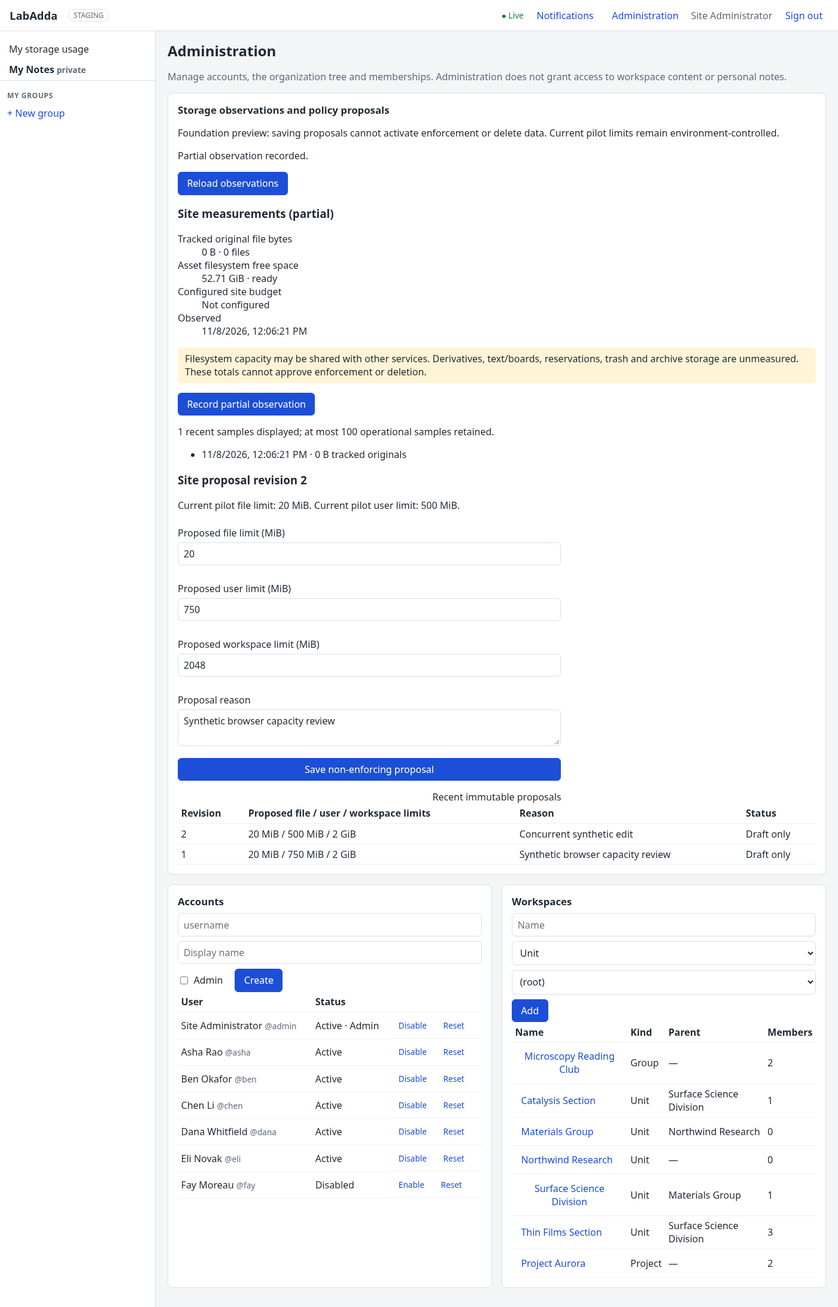
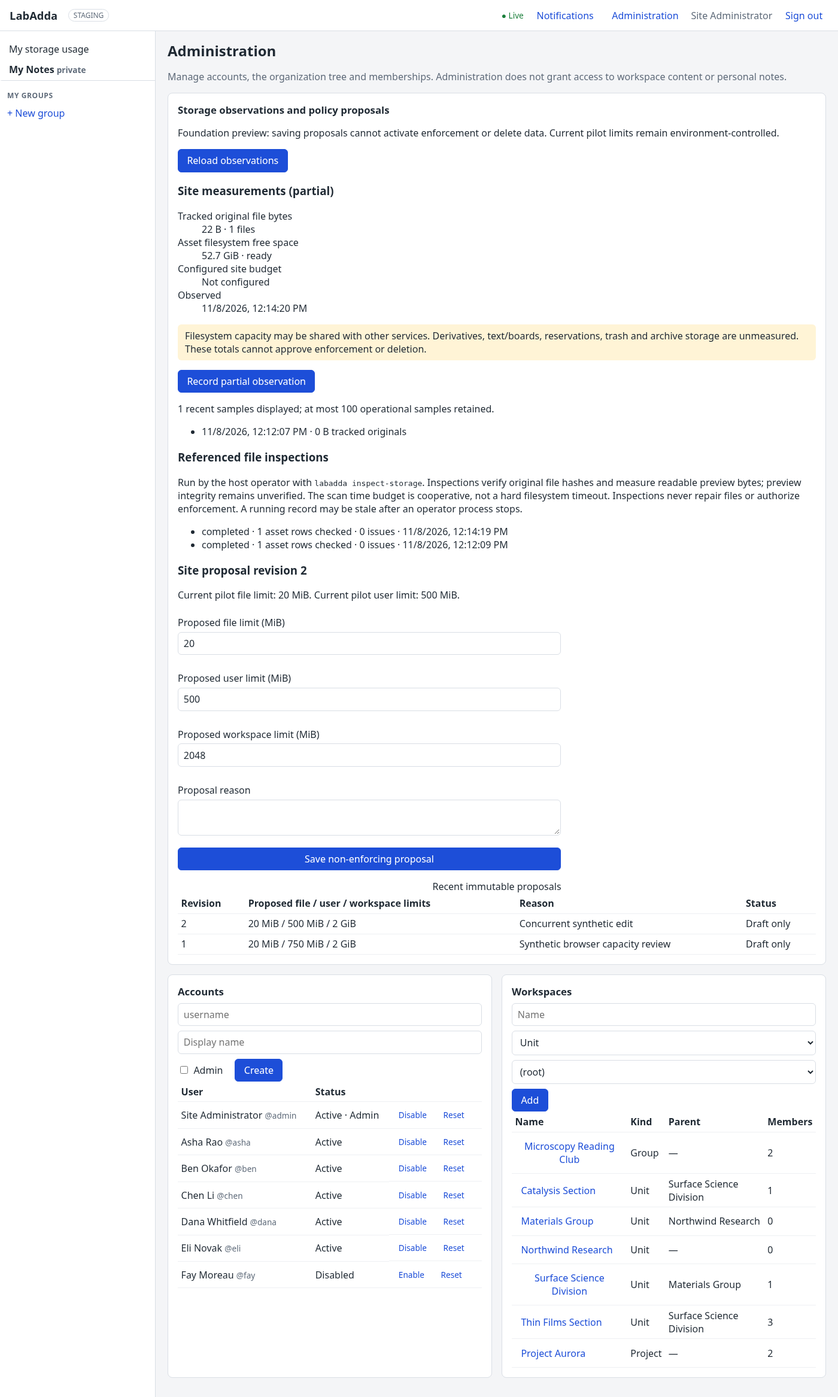
feat: add bounded read-only asset inspection and operator receipts

diff --git a/frontend/src/components/Governance.tsx b/frontend/src/components/Governance.tsx
@@ -7,6 +7,7 @@ const MiB = 1024 * 1024;
 export function Governance() {
   const [policy, setPolicy] = useState<PolicyDrafts | null>(null);
   const [usage, setUsage] = useState<SiteUsage | null>(null);
+  const [inspections, setInspections] = useState<{id: string; status: string; finished_at: string | null; summary: {checked_assets?: number; issue_count?: number; state?: string}}[]>([]);
   const [history, setHistory] = useState<Observation[]>([]);
   const [error, setError] = useState<string | null>(null);
   const [message, setMessage] = useState('');
@@ -16,8 +17,8 @@ export function Governance() {
   const [userLimit, setUserLimit] = useState(500);
   const [workspaceLimit, setWorkspaceLimit] = useState(2048);
   async function load() {
-    const [p, u, h] = await Promise.all([api<PolicyDrafts>('/admin/policy-drafts'), api<SiteUsage>('/admin/usage'), api<{observations: Observation[]}>('/admin/usage-observations')]);
-    setPolicy(p); setUsage(u); setHistory(h.observations);
+    const [p, u, h, inspections] = await Promise.all([api<PolicyDrafts>('/admin/policy-drafts'), api<SiteUsage>('/admin/usage'), api<{observations: Observation[]}>('/admin/usage-observations'), api('/admin/storage-inspections')]);
+    setPolicy(p); setUsage(u); setHistory(h.observations); setInspections(inspections.inspections);
   }
   useEffect(() => { load().catch(e => setError(e.message)); }, []);
   async function run(action: () => Promise<any>, success: string) {
@@ -51,9 +52,12 @@ export function Governance() {
       </dl>
       <p className="notice">Filesystem capacity may be shared with other services. Derivatives, text/boards, reservations, trash and archive storage are unmeasured. These totals cannot approve enforcement or deletion.</p>
       <button disabled={busy} onClick={() => run(() => api('/admin/usage-observations', {body: {}}), 'Partial observation recorded.')}>Record partial observation</button>
-      <p>{history.length} recent samples displayed; at most 100 operational samples retained.</p>
+      <p>{Math.min(history.length, 5)} recent samples displayed; at most 100 operational samples retained.</p>
       {history.length > 0 && <ul>{history.slice(0, 5).map(h => <li key={h.id}>{new Date(h.observed_at).toLocaleString()} · {bytes(h.measurement.assets.tracked_original_bytes)} tracked originals</li>)}</ul>}
     </>}
+    <h3>Referenced file inspections</h3>
+    <p>Run by the host operator with <code>labadda inspect-storage</code>. Inspections verify original file hashes and measure readable preview bytes; preview integrity remains unverified. The scan time budget is cooperative, not a hard filesystem timeout. Inspections never repair files or authorize enforcement. A running record may be stale after an operator process stops.</p>
+    {inspections.length === 0 ? <p>No inspection receipts available.</p> : <ul>{inspections.map(r => <li key={r.id}>{r.status} · {r.summary.checked_assets ?? 'Not reported'} asset rows checked · {r.summary.issue_count ?? 'Not reported'} issues · {r.finished_at ? new Date(r.finished_at).toLocaleString() : 'No completion receipt'}</li>)}</ul>}
     {policy && <>
       <h3>Site proposal revision {policy.latest_revision}</h3>
       <p>Current pilot file limit: {bytes(policy.runtime_limits.max_attachment_bytes)}. Current pilot user limit: {bytes(policy.runtime_limits.user_quota_bytes)}.</p>

diff --git a/backend/labadda/inspection.py b/backend/labadda/inspection.py
@@ -1,0 +1,120 @@
+"""Bounded non-destructive inspection of database-referenced asset files.
+
+Does not enumerate or delete unreferenced files, repair counters or authorize purge.
+Run as the trusted host operator. A live filesystem is not a transactional snapshot.
+"""
+import hashlib
+import stat
+import time
+import os
+from pathlib import Path
+
+from sqlalchemy import func, select, text
+
+from . import audit
+from .models import Asset, StorageInspection
+from .security import utcnow
+from .storage import AssetStore
+
+
+class BudgetExceeded(Exception):
+    pass
+
+
+def inspect_storage(factory, root: Path, *, max_files: int = 10000, max_bytes: int = 1024**3,
+                    max_seconds: float = 30) -> dict:
+    if not 1 <= max_files <= 100000 or not 1 <= max_bytes <= 10*1024**3 or not 0 < max_seconds <= 300:
+        raise ValueError('Inspection budget is outside supported bounds')
+    began = time.monotonic()
+    with factory() as db:
+        row = StorageInspection(status='running', summary={'source':'operator_cli', 'complete_for_enforcement':False}, created_at=utcnow())
+        db.add(row); db.commit(); inspection_id = row.id
+    summary = {'source':'operator_cli', 'state':'partial', 'complete_for_enforcement':False,
+               'scope':'database_referenced_assets', 'checked_assets':0, 'checked_files':0,
+               'verified_original_bytes':0, 'readable_preview_bytes':0, 'bytes_read':0,
+               'issue_count':0, 'issues':[], 'issues_truncated':False,
+               'budget':{'files':max_files,'bytes':max_bytes,'seconds':max_seconds},
+               'unmeasured':['unreferenced_files','text_and_board_bytes','reservations','trash','archives'],
+               'concurrent_changes_possible':True, 'preview_integrity':'unverified',
+               'time_budget_kind':'cooperative_scan_only'}
+    store = AssetStore(root)
+    def issue(asset_id, code):
+        summary['issue_count'] += 1
+        if len(summary['issues']) < 100:
+            summary['issues'].append({'asset_id':str(asset_id),'code':code})
+        else:
+            summary['issues_truncated'] = True
+    def check_budget():
+        if time.monotonic()-began >= max_seconds or summary['checked_files'] >= max_files:
+            raise BudgetExceeded()
+    def check_file(path, asset_id, size=None, expected_hash=None):
+        check_budget()
+        summary['checked_files'] += 1
+        # No following a final symlink; parents must resolve beneath this private root.
+        if path.is_symlink() or not path.resolve().is_relative_to(root.resolve()):
+            issue(asset_id,'unsafe_path'); return None
+        try:
+            fd = os.open(path, os.O_RDONLY | os.O_NOFOLLOW | os.O_NONBLOCK)
+            with os.fdopen(fd,'rb') as stream:
+                before = os.fstat(stream.fileno())
+                if not stat.S_ISREG(before.st_mode):
+                    issue(asset_id,'not_regular'); return None
+                if size is not None and before.st_size != size:
+                    issue(asset_id,'size_mismatch'); return None
+                if summary['bytes_read'] + before.st_size > max_bytes:
+                    raise BudgetExceeded()
+                h = hashlib.sha256(); read = 0
+                while True:
+                    if time.monotonic()-began >= max_seconds:
+                        raise BudgetExceeded()
+                    chunk = stream.read(min(256*1024, max_bytes-summary['bytes_read']+1))
+                    if not chunk: break
+                    summary['bytes_read'] += len(chunk); read += len(chunk)
+                    if summary['bytes_read'] > max_bytes: raise BudgetExceeded()
+                    h.update(chunk)
+                after = os.fstat(stream.fileno())
+                if (before.st_size,before.st_mtime_ns) != (after.st_size,after.st_mtime_ns) or read != before.st_size:
+                    issue(asset_id,'changed_during_read'); return None
+                if expected_hash is not None and h.hexdigest() != expected_hash:
+                    issue(asset_id,'hash_mismatch'); return None
+                return read
+        except OSError:
+            issue(asset_id,'file_unavailable'); return None
+    status = 'partial'
+    try:
+        if root.is_symlink() or not root.is_dir():
+            raise ValueError('Asset root must be a regular directory')
+        with factory() as db:
+            db.execute(text("set local statement_timeout = '2s'"))
+            total = db.scalar(select(func.count()).select_from(Asset))
+            summary['observed_asset_rows'] = total
+            # Fixed, bounded selection; new rows are never silently added to this pass.
+            rows = db.execute(select(Asset.id, Asset.storage_key, Asset.size, Asset.sha256, Asset.has_preview)
+                              .order_by(Asset.id).limit(max_files+1)).all()
+        summary['selected_asset_rows'] = min(len(rows), max_files)
+        for item in rows[:max_files]:
+            check_budget()
+            original = check_file(store.path(item.storage_key), item.id, item.size, item.sha256)
+            summary['checked_assets'] += 1
+            if original is not None: summary['verified_original_bytes'] += original
+            if item.has_preview:
+                preview = check_file(store.path(item.storage_key,preview=True), item.id)
+                if preview is not None: summary['readable_preview_bytes'] += preview
+        summary['selected_pass_complete'] = len(rows) <= max_files
+        status = 'completed' if summary['selected_pass_complete'] else 'partial'
+    except BudgetExceeded:
+        summary['selected_pass_complete'] = False
+        summary['stop_reason'] = 'budget_exhausted'
+    except Exception:
+        status = 'failed'
+        summary['selected_pass_complete'] = False
+        summary['stop_reason'] = 'inspection_unavailable'
+    summary['state'] = 'original_references_verified' if status == 'completed' and summary['issue_count'] == 0 and summary['readable_preview_bytes'] == 0 else 'partial'
+    summary['elapsed_seconds'] = round(time.monotonic()-began,3)
+    with factory() as db:
+        row = db.get(StorageInspection, inspection_id)
+        row.status, row.summary, row.finished_at = status, summary, utcnow()
+        audit.record(db, actor=None, action='storage.inspect', scope_type='site', target_id=inspection_id,
+                     outcome=status, source='operator_cli')
+        db.commit()
+    return {'id':str(inspection_id),'status':status,'summary':summary}

diff --git a/backend/tests/test_inspection.py b/backend/tests/test_inspection.py
@@ -1,0 +1,80 @@
+"""P5.1 bounded referenced-file inspection must not repair or expose content."""
+import pytest
+
+from labadda.inspection import inspect_storage
+
+
+def upload(api):
+    response = api.post('/uploads', files={'file': ('sensitive-label.pdf', b'%PDF-1.4\nfixture\n%%EOF', 'application/pdf')})
+    assert response.status_code == 201
+    return response.json()
+
+
+def test_referenced_original_hash_and_admin_receipt(as_user, settings, db_factory):
+    asset = upload(as_user('ben'))
+    result = inspect_storage(db_factory, settings.asset_dir)
+    assert result['status'] == 'completed'
+    assert result['summary']['verified_original_bytes'] == asset['size']
+    assert not result['summary']['complete_for_enforcement']
+    assert result['summary']['issue_count'] == 0
+    assert as_user('ben').get('/admin/storage-inspections').status_code == 403
+    receipt = as_user('admin').get('/admin/storage-inspections').json()['inspections'][0]
+    assert receipt['id'] == result['id']
+    assert 'sensitive-label' not in str(receipt)
+    assert not as_user('admin').get('/admin/storage-inspections').json()['enforcement_authority']
+
+
+@pytest.mark.parametrize('mutation,code', [('missing','file_unavailable'), ('bytes','hash_mismatch'), ('link','unsafe_path')])
+def test_mismatches_are_reported_never_repaired(as_user, settings, db_factory, mutation, code):
+    upload(as_user('ben'))
+    path = next(settings.asset_dir.rglob('*.bin'))
+    if mutation == 'missing': path.unlink()
+    elif mutation == 'bytes':
+        data = path.read_bytes()
+        path.write_bytes(b'x' * len(data))
+    else:
+        path.unlink(); path.symlink_to('/etc/passwd')
+    result = inspect_storage(db_factory, settings.asset_dir)
+    assert result['summary']['issue_count'] == 1
+    assert result['summary']['issues'][0]['code'] == code
+    assert result['summary']['state'] == 'partial'
+    if mutation == 'bytes': assert path.read_bytes() == b'x' * len(data)
+    if mutation == 'link': assert path.is_symlink()
+
+
+def test_byte_budget_stops_without_false_completion(as_user, settings, db_factory):
+    upload(as_user('ben'))
+    result = inspect_storage(db_factory, settings.asset_dir, max_bytes=1)
+    assert result['status'] == 'partial'
+    assert result['summary']['stop_reason'] == 'budget_exhausted'
+    assert result['summary']['bytes_read'] == 0
+
+
+def test_missing_asset_root_persists_failed_result(settings, db_factory):
+    result = inspect_storage(db_factory, settings.asset_dir)
+    assert result['status'] == 'failed'
+    assert result['summary']['stop_reason'] == 'inspection_unavailable'
+
+
+def test_preview_bytes_are_distinct_from_original_bytes(as_user, settings, db_factory):
+    from io import BytesIO
+    from PIL import Image
+    stream = BytesIO(); Image.new('RGB',(20,20),'blue').save(stream,format='PNG')
+    response = as_user('ben').post('/uploads',files={'file':('fixture.png',stream.getvalue(),'image/png')})
+    assert response.status_code == 201
+    result = inspect_storage(db_factory, settings.asset_dir)
+    assert result['summary']['verified_original_bytes'] == len(stream.getvalue())
+    assert result['summary']['readable_preview_bytes'] > 0
+    assert result['summary']['checked_files'] == 2
+    assert result['summary']['preview_integrity'] == 'unverified'
+    assert result['summary']['state'] == 'partial'
+
+
+def test_file_budget_includes_previews(as_user, settings, db_factory):
+    from io import BytesIO
+    from PIL import Image
+    stream = BytesIO(); Image.new('RGB',(2,2),'blue').save(stream,format='PNG')
+    assert as_user('ben').post('/uploads',files={'file':('fixture.png',stream.getvalue(),'image/png')}).status_code == 201
+    result = inspect_storage(db_factory, settings.asset_dir, max_files=1)
+    assert result['status'] == 'partial'
+    assert result['summary']['stop_reason'] == 'budget_exhausted'

diff --git a/backend/labadda/api/usage.py b/backend/labadda/api/usage.py
@@ -10,7 +10,7 @@ from .. import audit
 from ..config import Settings
 from ..deps import Actor, current_actor, get_db, get_settings, require_admin
 from ..errors import ApiError
-from ..models import Asset, UsageObservation
+from ..models import Asset, StorageInspection, UsageObservation
 from ..security import utcnow
 from ..serialize import iso
 
@@ -78,7 +78,7 @@ def record_observation(actor: Actor = Depends(require_admin), db: Session = Depe
     measured = site_payload(db, settings)
     # Keep only 100 observations. This is explicitly operational telemetry, not
     # immutable policy/audit history or a deletion candidate ledger.
-    row = UsageObservation(schema_version=1, payload=measured, created_by=actor.id)
+    row = UsageObservation(schema_version=1, payload=measured, created_by=actor.id, created_at=utcnow())
     db.add(row)
     db.flush()
     old_ids = select(UsageObservation.id).order_by(UsageObservation.created_at.desc(), UsageObservation.id.desc()).offset(100)
@@ -93,3 +93,11 @@ def observations(actor: Actor = Depends(require_admin), db: Session = Depends(ge
     rows = db.scalars(select(UsageObservation).order_by(UsageObservation.created_at.desc(), UsageObservation.id.desc()).limit(20))
     return {'observations': [{'id': str(r.id), 'observed_at': iso(r.created_at), 'measurement': r.payload} for r in rows],
             'retention': {'maximum_samples': 100, 'returned_samples': 20}}
+
+
+@router.get('/admin/storage-inspections')
+def inspections(actor: Actor = Depends(require_admin), db: Session = Depends(get_db)):
+    rows = db.scalars(select(StorageInspection).order_by(StorageInspection.created_at.desc(), StorageInspection.id.desc()).limit(20))
+    return {'inspections': [{'id':str(r.id), 'status':r.status, 'started_at':iso(r.created_at),
+                            'finished_at':iso(r.finished_at), 'summary':r.summary} for r in rows],
+            'trigger': 'trusted_operator_cli', 'enforcement_authority': False}

diff --git a/backend/labadda/cli.py b/backend/labadda/cli.py
@@ -45,8 +45,23 @@ def main(argv: list[str] | None = None) -> int:
     restore.add_argument("bundle", type=Path)
     restore.add_argument("--manifest-sha256", required=True)
     restore.add_argument("--isolated-target", action="store_true", required=True)
+    inspect = sub.add_parser("inspect-storage", help="bounded read-only inspection of referenced asset bytes")
+    inspect.add_argument("--max-files", type=int, default=10000)
+    inspect.add_argument("--max-bytes", type=int, default=1024**3)
+    inspect.add_argument("--max-seconds", type=float, default=30)
     args = parser.parse_args(argv)
     settings = load_settings()
+
+    if args.cmd == "inspect-storage":
+        from .inspection import inspect_storage
+        try:
+            result = inspect_storage(session_factory(settings.database_url), settings.asset_dir,
+                                     max_files=args.max_files, max_bytes=args.max_bytes, max_seconds=args.max_seconds)
+            print(json.dumps(result))
+            return 0 if result["status"] == "completed" and result["summary"]["issue_count"] == 0 else 2
+        except Exception:
+            print("Inspection failed. Check budgets, asset root and database access; no files were repaired or removed.", file=sys.stderr)
+            return 2
 
     if args.cmd == "backup":
         from .recovery import backup as create_backup

diff --git a/backend/migrations/versions/0008_storage_inspections.py b/backend/migrations/versions/0008_storage_inspections.py
@@ -1,0 +1,23 @@
+"""Read-only referenced-file inspection receipts."""
+import sqlalchemy as sa
+from sqlalchemy.dialects.postgresql import JSONB
+from alembic import op
+
+revision = '0008'
+down_revision = '0007'
+branch_labels = None
+depends_on = None
+
+
+def upgrade():
+    op.create_table('storage_inspections', sa.Column('id', sa.UUID(), primary_key=True),
+        sa.Column('status', sa.String(16), nullable=False), sa.Column('summary', JSONB(), nullable=False),
+        sa.Column('created_at', sa.DateTime(timezone=True), server_default=sa.text('now()'), nullable=False),
+        sa.Column('finished_at', sa.DateTime(timezone=True)),
+        sa.CheckConstraint("status in ('running','completed','partial','failed')", name='ck_storage_inspection_status'))
+
+
+def downgrade():
+    if op.get_bind().scalar(sa.text('select count(*) from storage_inspections')):
+        raise RuntimeError('Storage inspections exist; downgrade would discard reconciliation evidence')
+    op.drop_table('storage_inspections')

diff --git a/backend/labadda/models.py b/backend/labadda/models.py
@@ -382,3 +382,14 @@ class UsageObservation(Base):
     created_by: Mapped[uuid.UUID] = mapped_column(UUID(as_uuid=True), ForeignKey('users.id'), nullable=False)
     created_at: Mapped[datetime] = _created()
     __table_args__ = (CheckConstraint('schema_version = 1', name='ck_usage_observation_version'),)
+
+
+class StorageInspection(Base):
+    """Operator-triggered, read-only referenced-file reconciliation evidence."""
+    __tablename__ = 'storage_inspections'
+    id: Mapped[uuid.UUID] = _uuid_pk()
+    status: Mapped[str] = mapped_column(String(16), nullable=False)
+    summary: Mapped[dict] = mapped_column(JSONB, nullable=False)
+    created_at: Mapped[datetime] = _created()
+    finished_at: Mapped[datetime | None] = mapped_column(DateTime(timezone=True))
+    __table_args__ = (CheckConstraint("status in ('running','completed','partial','failed')", name='ck_storage_inspection_status'),)

diff --git a/backend/tests/test_usage.py b/backend/tests/test_usage.py
@@ -64,3 +64,14 @@ def test_usage_cannot_select_another_user(as_user, ids):
     assert upload(as_user('ben')).status_code == 201
     result = as_user('chen').get('/usage', params={'user_id': ids['users']['ben']}).json()
     assert result['measurement']['tracked_files'] == 0
+
+
+def test_record_timestamp_is_actual_observation_clock(as_user, monkeypatch):
+    from datetime import datetime, timezone
+    from labadda.api import usage
+    point = datetime(2032,1,1,tzinfo=timezone.utc)
+    monkeypatch.setattr(usage, 'utcnow', lambda: point)
+    admin = as_user('admin')
+    result = admin.post('/admin/usage-observations', json={}).json()
+    assert result['observed_at'].startswith('2032-01-01')
+    assert admin.get('/admin/usage-observations').json()['observations'][0]['observed_at'].startswith('2032-01-01')

diff --git a/backend/labadda/fixtures.py b/backend/labadda/fixtures.py
@@ -48,7 +48,7 @@ def fixture_password() -> str:
 
 
 def reset_database(db: Session) -> None:
-    tables = ["usage_observations", "policy_drafts", "panel_pairings", "board_snapshots", "board_ops", "boards", "chat_reads", "chat_messages", "notifications", "assets", "notes", "posts",
+    tables = ["storage_inspections", "usage_observations", "policy_drafts", "panel_pairings", "board_snapshots", "board_ops", "boards", "chat_reads", "chat_messages", "notifications", "assets", "notes", "posts",
               "audit_events", "memberships", "credential_tokens", "auth_sessions"]
     db.execute(text("UPDATE users SET home_workspace_id = NULL"))
     db.execute(text("TRUNCATE " + ", ".join(tables) + " RESTART IDENTITY CASCADE"))

diff --git a/ROADMAP.md b/ROADMAP.md
@@ -79,3 +79,4 @@ Add an entry at the end of each meaningful tranche. Mark status as planned, acti
 | P5.1 · Policy proposal foundation · implemented locally | Added schema 0006 with immutable site proposal revisions, strict bounded observation-only profile validation, optimistic conflict checks, atomic audit, locked authorization refresh and populated-history downgrade refusal. Focused API/migration checks pass. | Drafts cannot activate or affect current environment limits. Full P5.1 capabilities, metering/reconciliation and activation safety remain incomplete. GitHub authentication was rejected; publication must be confirmed separately. | Add truthful read-only usage observations and operator/user views before enforcement. |
 | P5.1 · Partial usage observations · implemented | Added current-user and admin-site tracked original-byte observations, explicit unmeasured categories and unknown filesystem states, bounded persisted metadata-only site samples, query timeouts and audit. Focused authorization/accounting/history tests and migration drift checks passed. | These samples are not a durable admission ledger: derivatives, text/board charges, reservations, reference reconciliation and full physical attribution remain unmeasured. Existing pilot quota enforcement is unchanged. | Add user/admin web views; continue complete accounting before claiming P5.1 ready. |
 | P5.1 · Web observation/proposal slice · implemented | Added user storage usage and admin partial measurement/history/proposal UI with preserved conflicted inputs, typed response contracts and desktop/mobile entry points. Eighteen browser checks passed at root and prefix. Full suite passed 198 backend tests with recovery and drift checks; frontend typecheck/build and 11 frontend tests passed. [Status/evidence](docs/P5-PROGRESS.md). | This is partial P5.1, not completed policy enforcement, accounting, archive export or retention. UI explicitly reports unknown/unmeasured data and non-activation. | Complete durable accounting/reconciliation before progressing through dependent P5 gates. |
+| P5.1 · Referenced-file reconciliation · implemented | Added bounded operator CLI inspection, schema 0008 receipt/audit, admin API/UI, original size/hash verification and separate preview-byte measurement. Eight inspection tests plus timestamp regression pass; full suite 207 backend tests, recovery/drift, 11 frontend tests/build and 20 root/prefix browser checks passed. | Preview integrity, live snapshot consistency, orphan enumeration, full ledger/reservations and policy activation remain explicitly unverified/unimplemented. No repair/purge. Time bound is cooperative. | Continue capability separation and durable ledger work within P5.1, retaining inactive enforcement. |

diff --git a/docs/API.md b/docs/API.md
@@ -78,3 +78,5 @@ Publish stable machine-readable reasons including `quota_exceeded`, `rate_limite
 `GET /admin/policy-drafts?limit=20&before=<revision>` and `POST /admin/policy-drafts` are admin-only. POST requires `{base_revision, reason, profile}`; profile schema 1 accepts only observation mode and bounded integer file/user/workspace limits, rejects unknown fields and cannot activate rules. Concurrent saves return `policy_conflict` rather than overwrite a proposal. Responses explicitly report `enforced:false`; GET separately reports environment-backed runtime limits and `activation_supported:false`. Proposal/audit commit is atomic; actor/session authorization is refreshed and locked before save. This is a partial P5.1 foundation, not implementation of the future policy activation, inheritance, dry-run or retention contracts.
 
 `GET /usage` returns the authenticated user's own tracked original/provisional attachment counts and bytes, the environment pilot limit and an explicit list of unmeasured categories. `GET /admin/usage` adds site aggregates and filesystem free-space/inode observations without exposing paths, filenames or content. Missing filesystem measurements return `unknown` with null values. `POST /admin/usage-observations` explicitly saves a partial sample and audit; serialization keeps a maximum of 100 operational samples. `GET /admin/usage-observations` returns the latest 20. These admin-only samples do not claim full metering, reconciliation, configured site budget or new enforcement. Aggregate query timeouts return `measurement_unavailable` rather than zero.
+
+`GET /admin/storage-inspections` returns the latest 20 operator-triggered referenced-file inspection receipts. It is admin-only and grants no enforcement authority. The trusted-host command `labadda inspect-storage --max-files 10000 --max-bytes 1073741824 --max-seconds 30` persists a receipt and audit, verifies selected original-file sizes/hashes, and measures readable preview bytes separately. It never repairs/removes files or scans unreferenced files. `--max-seconds` is a cooperative scan budget, not a hard timeout on blocking OS/database calls. Preview integrity, live-filesystem consistency and full accounting remain explicitly unverified. Exit code 2 means issues, incomplete budget or failure; zero means the selected reference pass completed without reported issues, not full-site readiness. A process interruption may leave a running receipt without a completion timestamp.

diff --git a/docs/P5-PROGRESS.md b/docs/P5-PROGRESS.md
@@ -15,3 +15,9 @@ Migration heads 0006/0007 preserve governance history and refuse destructive dow
 Current pilot upload limits remain environment-controlled. Proposed values do not activate or affect storage admission. Measurement includes original asset metadata only; derivatives, board/text bytes, reservations, trash, temporary archives, full reference reconciliation and configured site budget remain explicitly unmeasured/unavailable. The current API uses existing administrator gating; a configurable capability/approval system is not complete.
 
 Next: complete durable accounting and bounded reconciliation/capability design within P5.1. P5.2 portable export and all retention, archive viewing/materialization, policy activation, destructive dry-run/approval and operational analytics phases remain unimplemented. Do not enable enforcement or purge based on these partial observations.
+
+## Referenced-file inspection slice
+
+Schema 0008 adds operator-only non-destructive inspection receipts. `labadda inspect-storage` has file/byte limits and cooperative scan-time checks, fixed selected metadata rows, size/hash verification for originals, separate readable-preview bytes and capped diagnostic samples. Missing, modified, unsafe or unavailable files produce explicit issue codes; budget exhaustion remains partial. It does not enumerate orphan files, repair counters, delete blobs or authorize enforcement. A live scan can race changes; previews have no stored expected integrity digest, so their integrity remains unverified. The scan time budget cannot bound blocking filesystem/database I/O. Interrupted running receipts remain visibly unfinished rather than success.
+
+The admin web view lists these receipts without private filenames or content; the CLI runs only under trusted host-operator access. Full validation passed **207 backend tests**, real PostgreSQL recovery, no migration drift, **11 frontend tests**, typecheck and build. The root/prefix governance scenario passed 18 browser checks, and two additional browser checks confirmed actual CLI receipts in the admin view. Review corrected sample timestamps to actual observation time, the displayed-five/history-twenty count, preview-verification labels and unknown running counters. Read-only measurements remain unsuitable as a complete enforcement ledger.
